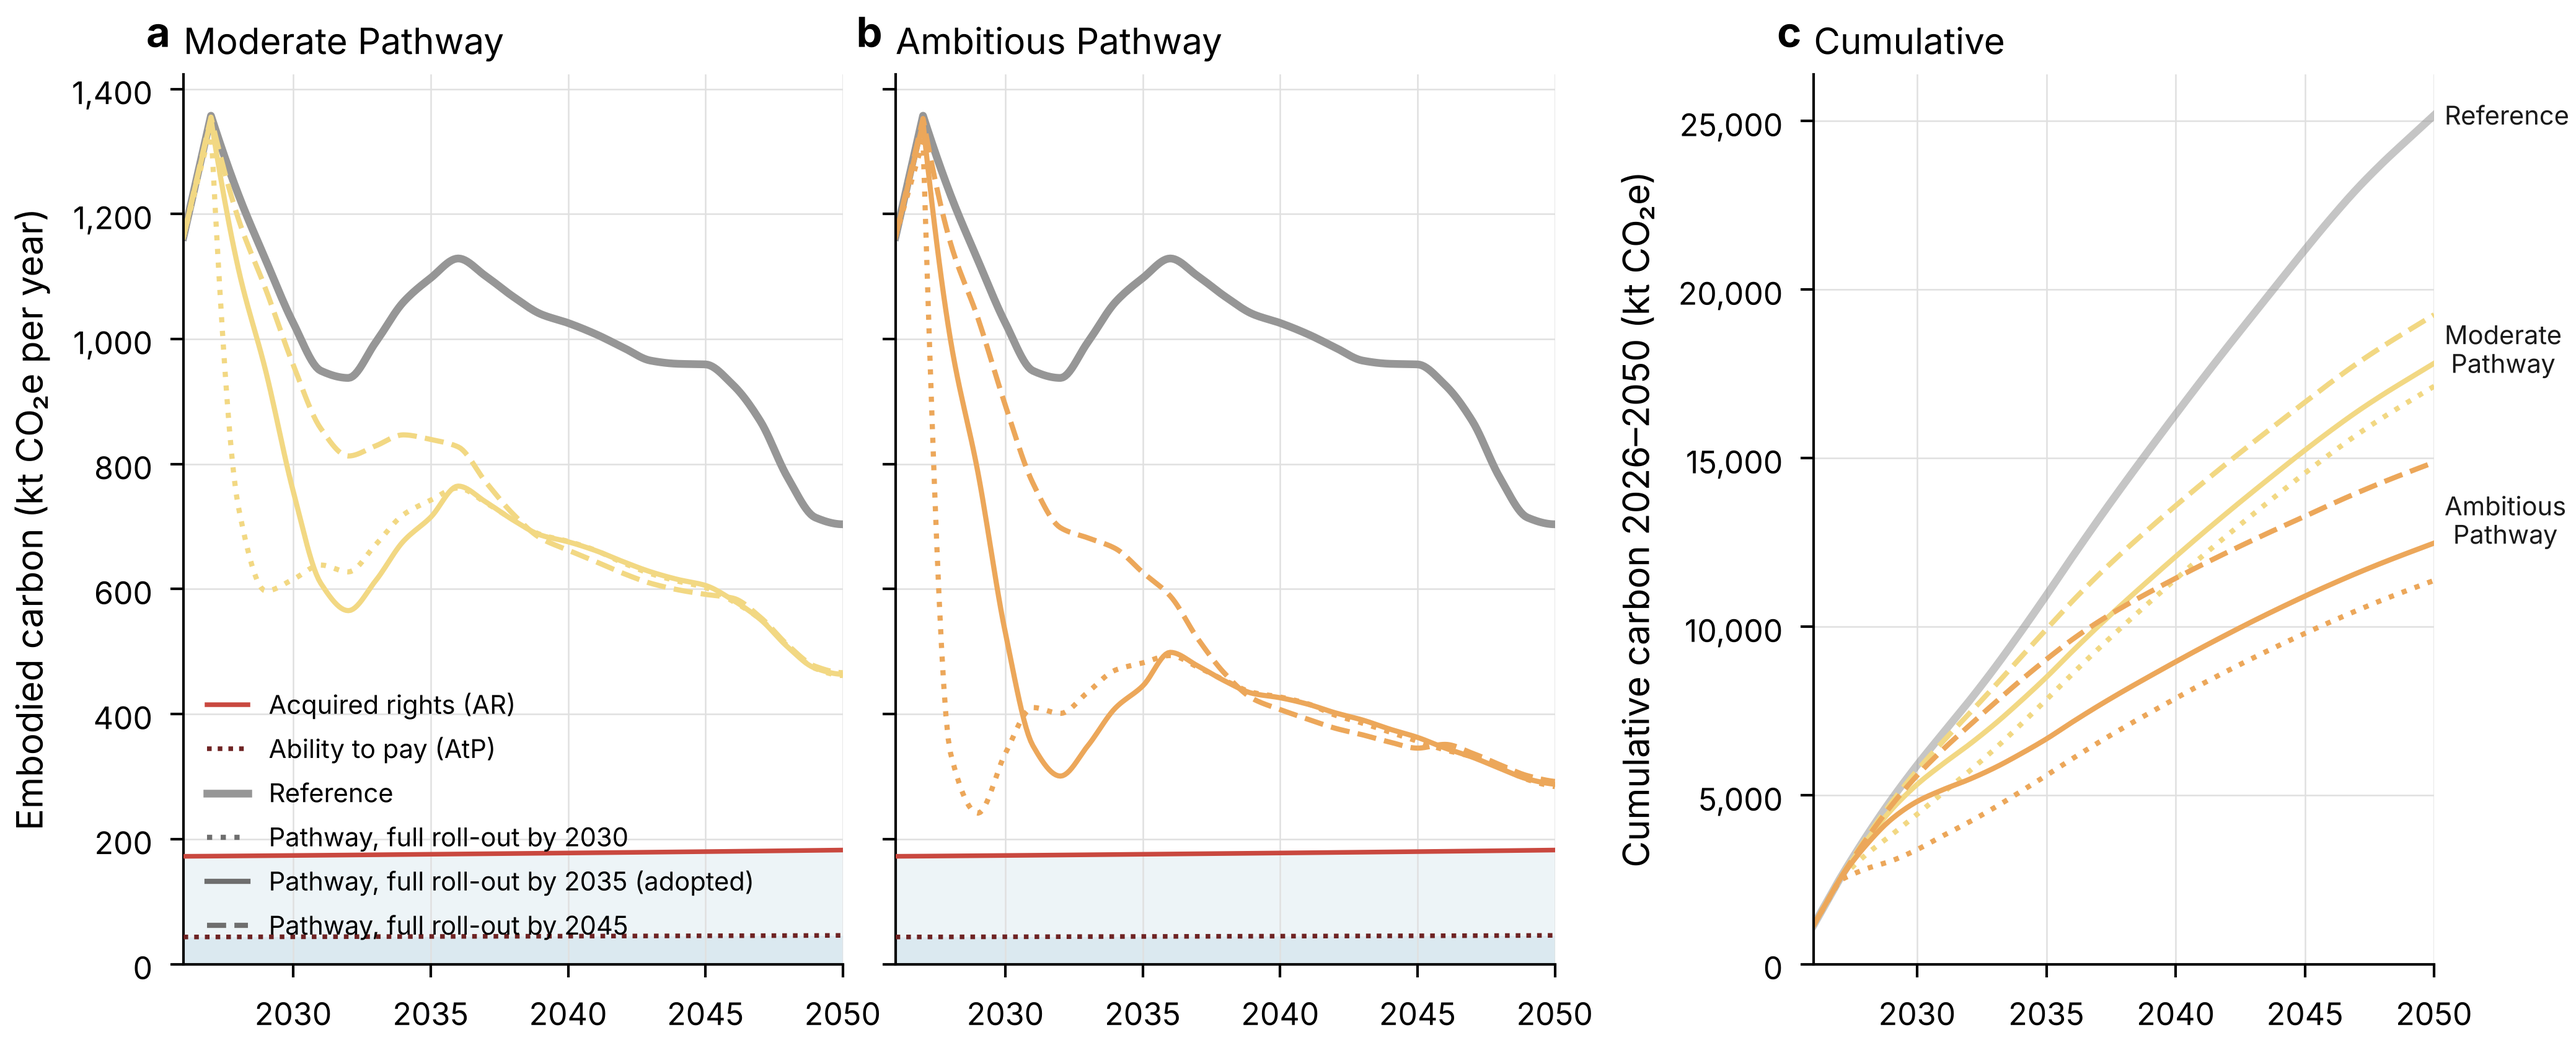
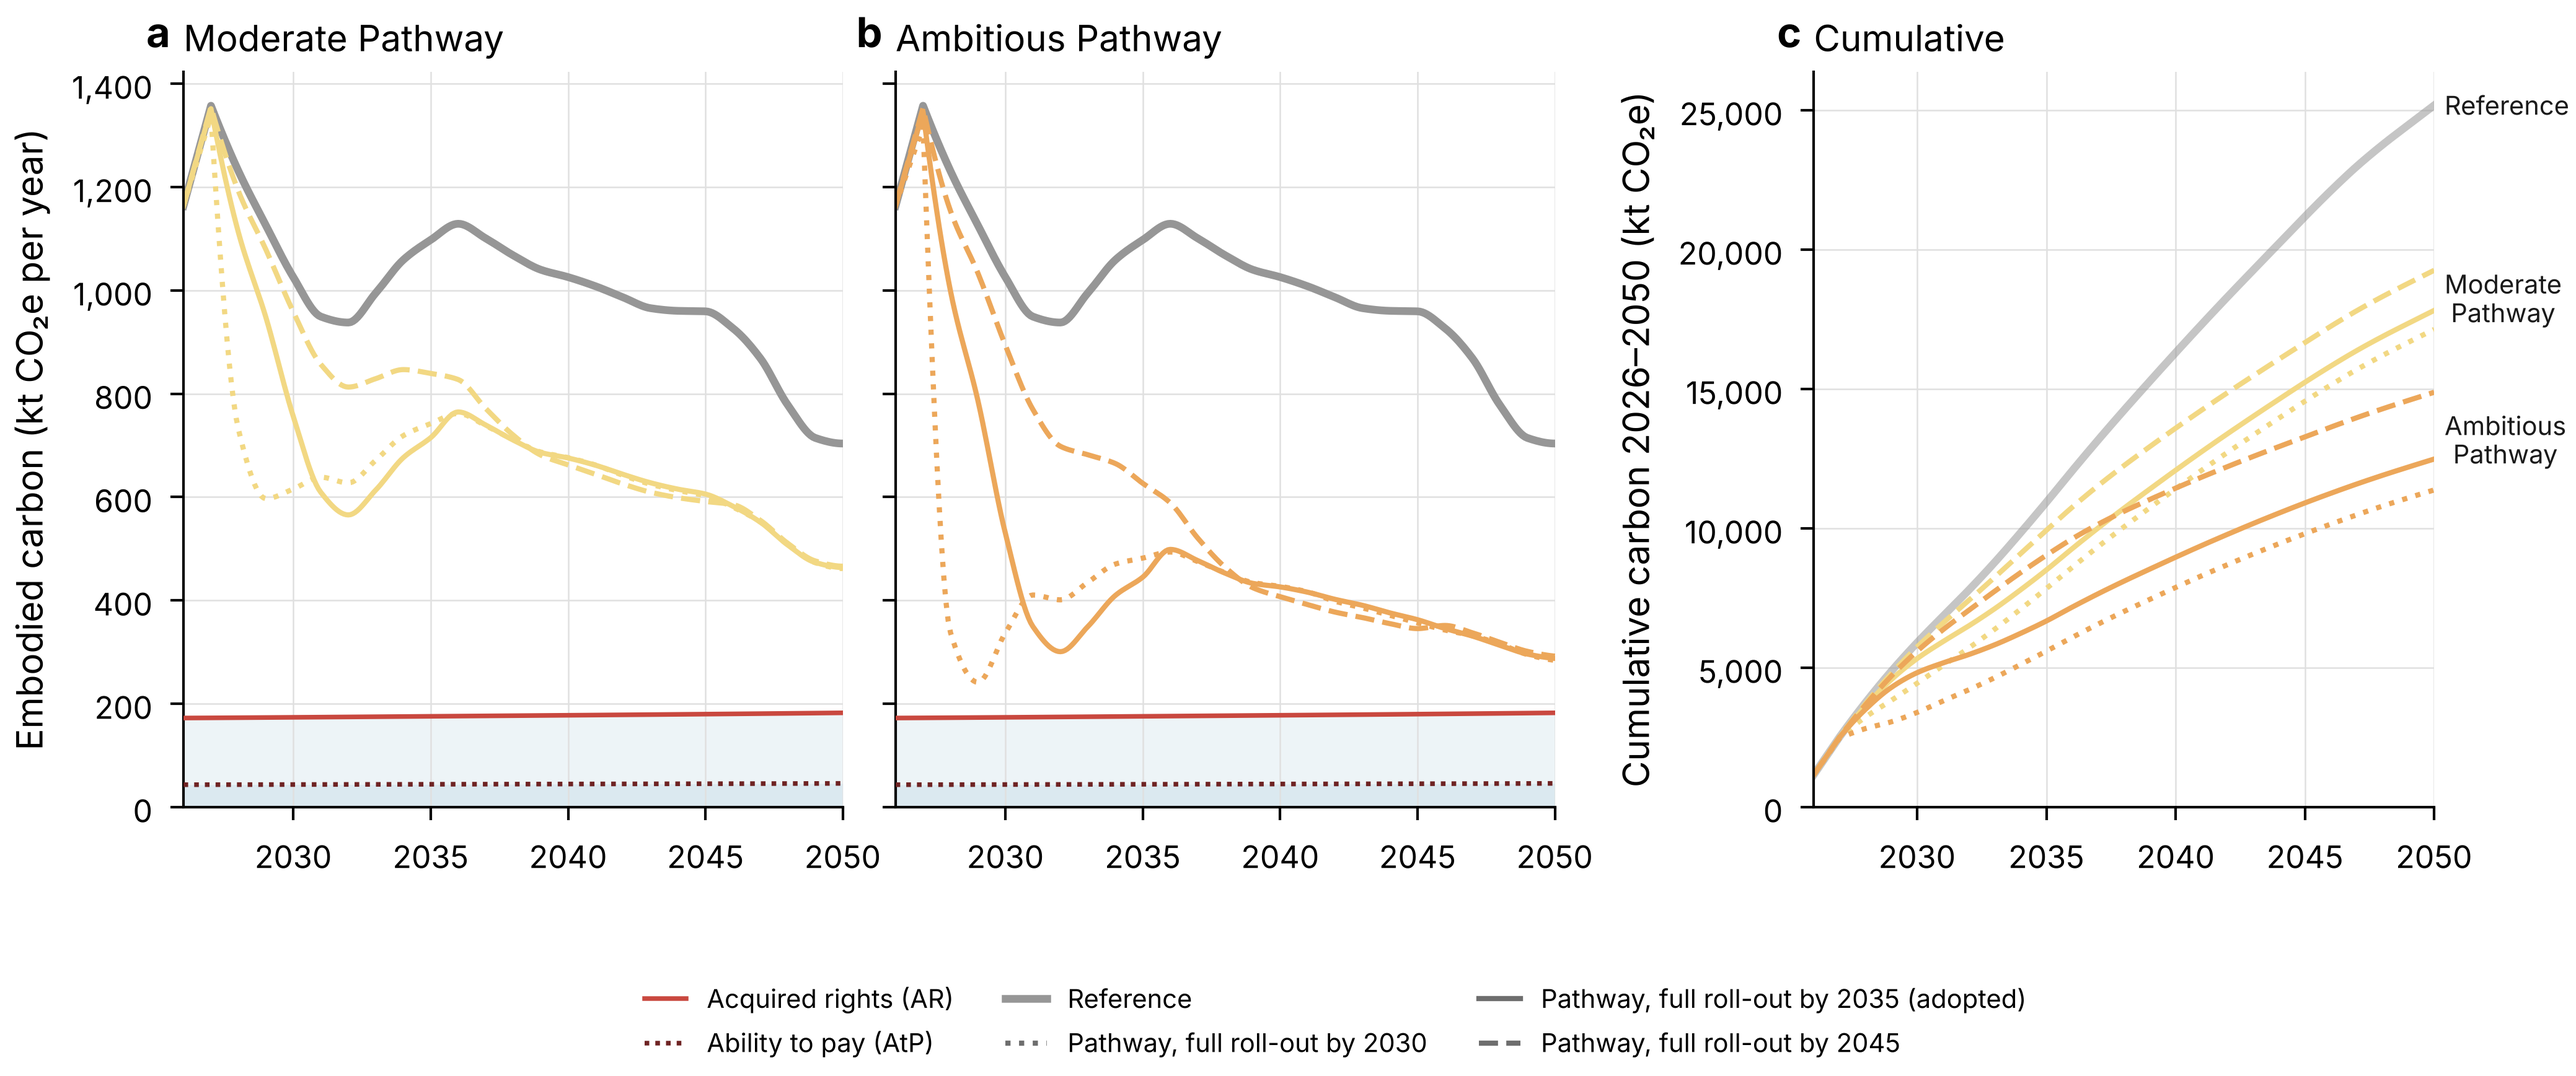
MODEL v4.4.0: figures checked, CHANGELOG old -> new table, CITATION 4.4.0
- Fig5 axes to 90% (TL marker clipped) with a STOP if a marker is within 3 pp
  of the edge; contour labels placed clear of the markers
- ED3 and ED9 legends below the panels (they covered the new data lines)
- CHANGELOG v4.4.0 with the old -> new table; CITATION.cff 4.4.0

diff --git a/figures/paper_extended.py b/figures/paper_extended.py
@@ -197,8 +197,10 @@ def ed10():
     plt.setp(ax[1].get_yticklabels(), visible=False)
     ax[0].set_ylabel('Embodied carbon (kt CO₂e per year)')
     h0, _ = ax[0].get_legend_handles_labels()                       # AR, AtP, Reference; the roll-out styles in grey
-    ax[0].legend(handles=h0 + [Line2D([0], [0], color=S.MUTED, ls=ls, lw=S.LW, label=f'Pathway, full roll-out {lab}')
-                               for _, ls, lab in VARIANTS], fontsize=S.FONT_MIN)
+    # the legend below the panels (the AR / AtP lines and the zones fill the lower part of panel a)
+    fig.legend(handles=h0 + [Line2D([0], [0], color=S.MUTED, ls=ls, lw=S.LW, label=f'Pathway, full roll-out {lab}')
+                             for _, ls, lab in VARIANTS], fontsize=S.FONT_MIN, loc='lower center',
+               bbox_to_anchor=(0.5, 0.0), ncol=3, frameon=False)
     # (c) cumulative 2026-2050 (running sum from 2026)
     c = fig.add_subplot(outer[1])
     m = yrs >= 2026
@@ -223,7 +225,7 @@ def ed10():
     c.set_ylabel('Cumulative carbon 2026–2050 (kt CO₂e)')
     P.thousands(c.yaxis)
     P.panel(c, 'c', 'Cumulative')
-    fig.subplots_adjust(left=0.07, right=0.91, bottom=0.11, top=0.92)
+    fig.subplots_adjust(left=0.07, right=0.91, bottom=0.25, top=0.92)
     _save(fig, 'ED9_rollout_timing', note='(c) Cumulative 2026-2050 (kt): ' + ', '.join(
         f'{N.run_label(r_)} {v:,.0f}' for r_, v in ends) + f'; Reference {cref[-1]:,.0f}.')
 
@@ -319,13 +321,14 @@ def ed9():
     ax[0].set_xlim(yrs[0], yrs[-1])
     ax[0].set_ylim(0, None)
     ax[0].set_ylabel('Embodied carbon (kt CO₂e per year)')
-    ax[0].legend(handles=[Line2D([0], [0], color=S.REFERENCE, label=N.SCENARIOS['REF']),
+    # the legend of panel a below the panels (the variants' lines fill the upper part of panel a)
+    fig.legend(handles=[Line2D([0], [0], color=S.REFERENCE, label=N.SCENARIOS['REF']),
                           Line2D([0], [0], color=S.PATHWAY_SETTING['moderate'], label=N.PATHWAY_RUNS['pathway-moderate']),
                           Line2D([0], [0], color=S.PATHWAY_SETTING['ambitious'],
                                  label=N.PATHWAY_RUNS['pathway-ambitious']),
                           Line2D([0], [0], color=S.TL, label=N.TL['TL'])] +
                  [Line2D([0], [0], color=S.MUTED, ls=ls, label=_variant_label(k)) for k, ls in VARIANT_LS],
-                 fontsize=S.FONT_MIN)
+               fontsize=S.FONT_MIN, loc='lower left', bbox_to_anchor=(0.06, 0.0), ncol=4, frameon=False)
     P.panel(ax[0], 'a', 'Annual')
     piv = v.pivot(index='run', columns='scenario', values='LoE_AR').loc[['Reference', 'pathway-moderate',
                                                                         'pathway-ambitious', 'TL']]
@@ -342,7 +345,7 @@ def ed9():
     ax[1].set_ylabel(f'{N.LOE_AR} 2026–2050')
     ax[1].legend(fontsize=S.FONT_MIN)
     P.panel(ax[1], 'b', 'Cumulative')
-    fig.tight_layout()
+    fig.tight_layout(rect=(0, 0.12, 1, 1))
     _save(fig, 'ED3_replacement_variants')                          # ED8 -> ED3
 
 

diff --git a/figures/paper_main.py b/figures/paper_main.py
@@ -570,8 +570,9 @@ def reduction_by_band():
 # ---------------------------------------------------------------------------
 # Fig5: the solution space against AR and AtP
 # ---------------------------------------------------------------------------
-FIG5_LIM = (-0.05, 0.85)        # both axes from -5% to 100% (to 110%)
-FIG5_N = 421                   # grid points per axis (0.25% steps)
+FIG5_LIM = (-0.05, 0.90)        # both axes from -5% to 90%
+FIG5_N = 381                   # grid points per axis (0.25% steps)
+FIG5_MARKER_MARGIN = 0.03      # every marker at least this far inside the square (a marker on the edge is clipped)
 
 
 def fig5_loe(bc, x, y):
@@ -677,10 +678,28 @@ def fig5():
     # labels where each contour crosses the diagonal x = y: (1 - x)^2 = k
     diag = {v: 1.0 - np.sqrt(fig5_k(bc, v)) for v in levels if fig5_k(bc, v) > 0}
     lab_levels = [v for v, d in diag.items() if 0.02 <= d <= 0.98]      # crossings inside the square only
-    ax.clabel(cs, levels=lab_levels, fmt=lambda v: f'LoE of AR {v:g}', fontsize=S.FONT_MIN,
-              manual=[(100 * diag[v], 100 * diag[v]) for v in lab_levels])
+    # each label sits where its contour crosses the diagonal unless its text (about 14 percentage points long)
+    # would cover a marker; then the first position along the contour, either side of the diagonal, that clears
+    # every marker and the square's edges (clabel takes the nearest contour point to the position given)
+    mk = [(100 * m['demand_reduction'], 100 * m['intensity_reduction']) for m in bc['solution_space_markers']]
+    clear = lambda p: (all(np.hypot(p[0] - a, p[1] - b) >= (14.0 if s == 0 else 10.0) for a, b in mk)
+                       and 100 * lo + 8.0 <= min(p) and max(p) <= 100 * hi - 8.0)
+    pos = []
+    for v in lab_levels:
+        d = 100 * diag[v]
+        pick = (d, d)
+        for s in sorted(range(-40, 41, 2), key=abs):
+            if clear((d + s, d - s)):
+                pick = (d + s, d - s)
+                break
+        pos.append(pick)
+    ax.clabel(cs, levels=lab_levels, fmt=lambda v: f'LoE of AR {v:g}', fontsize=S.FONT_MIN, manual=pos)
     for m in bc['solution_space_markers']:
         run = m['run']
+        if not all(lo + FIG5_MARKER_MARGIN <= v <= hi - FIG5_MARKER_MARGIN
+                   for v in (m['demand_reduction'], m['intensity_reduction'])):
+            raise SystemExit(f"STOP: Fig5: the {run} marker ({m['demand_reduction']:.3f}, {m['intensity_reduction']:.3f}) "
+                             f'is not inside the plotted square {FIG5_LIM} with margin {FIG5_MARKER_MARGIN}')
         xm, ym = 100 * m['demand_reduction'], 100 * m['intensity_reduction']
         if run == 'TL':
             ax.plot(xm, ym, color=S.TL, ls='none', **S.TL_MARKER, zorder=6)

diff --git a/CHANGELOG.md b/CHANGELOG.md
@@ -2,6 +2,84 @@
 
 Current release first. "Numbers" means the reported results in `outputs/data/`.
 
+## model-v4.4.0: Stats NZ 2023-base household projections, starting surplus, AR base with completion
+
+One full run (`run_all.py --profile full`), then the light profile. Every number below is read from the outputs of
+v4.3.7 (5ae8bf5) and of this run.
+
+* **Household size: Stats NZ 2023-base family and household projections.**
+  * Inputs: POPPR_FHH_008 (people in households) and POPPR_FHH_010 (households), 2023(base)-2048, Low / Medium /
+    High x propensity A / B, in `data/raw/` (MANIFEST rows).
+  * `data/build_households_2023.py` writes `data/derived/households_proj_2023base.csv`, with
+    S = people in households / households. The published AHS is not used. A STOP fires unless
+    FHH + OPH + OMH = HH within 100.
+  * Knots, Medium A: 2.741, 2.689, 2.633, 2.584, 2.548, 2.524 (2023-2048). Medium B ends at 2.648.
+  * The Reference uses Medium A (`HH_PROPENSITY = 'A'`), rebased on the observed 2023 household size (2.686).
+    This holds the share of the population outside private dwellings at its 2023 level.
+  * S 2048 / 2049 / 2050 = 2.473 / 2.473 / 2.473: zero slope imposed at 2048, held after it.
+  * N4 resolved. The 5th / 95th population paths take Low A / High A (`HH_SIZE_PAIRED`). The Monte Carlo pairs them
+    through one z, as before.
+  * Rows:
+    * The S-only "Stats NZ High / Low variant" row is removed; its variation is now part of the population row.
+    * New row "Living arrangements: propensities change (Stats NZ B)" (Medium B): Reference -18.1%.
+    * The tail rows now act "after 2048". The secant and end-slope tapers move carbon by +1.04% and +0.78%, above the
+      0.1% rule, so they stay shown. The flat row (-0.008%) stays in the not-shown list.
+  * The 2018-base files and loader are no longer used by any reported run. They are kept only as
+    `HH_SIZE_PATH = 'statsnz_2018'`, with which tests/test_events.py and tests/test_model_v4.py reproduce the
+    anchors of earlier versions.
+* **F2: households 2019-2023.** `data/raw` holds no Stats NZ household estimates rebased on the 2023 census: the
+  March 2026 quarter release still has its last household base at 2018. The census-pinned rescaling (k = 0.824) is
+  kept and nothing was fetched.
+* **F1: starting surplus (rule fixed in advance).**
+  * Stock-identity residual, 1992-2023 census intervals: time-weighted mean -463 and SD 3,038 dwellings a year.
+  * 2024-2025: 9,020 a year, above mean + 2 SD (5,614), so the surplus is carried.
+  * Starting surplus: (9,020 + 463) x 2 = 18,966 vacant dwellings at 1 January 2026. It is absorbed with the
+    overbuild by 2035, in every run and Monte Carlo draw, recomputed from each run's own completion rate and lag.
+    TL runs pool it for re-occupation.
+  * Rows: no starting surplus +2.71%; minus 2 SD (6,812 dwellings) +1.73%.
+  * The decision does not depend on the SD definition: with the unweighted SD (3,437), mean + 2 SD = 6,412.
+* **F5: the AR base co-varies with the completion rate and lag.**
+  * Each Monte Carlo draw rebuilds its 2016-2025 history at its own completion rate
+    (`boundaries.history_at_completion`).
+  * The completion-rate and completion-lag rows recompute the base from their own runs (class 'recompute'). The
+    Monte Carlo base at 0.93 equals the base of the 0.93 run to 1e-12.
+* **F6:** the Fig7a note states that the carbon-factor (jackknife) row falls below the row filter: LoE AR
+  5.660-5.697 against carbon -3.4% / +3.2%, because the AR base co-varies with the factors.
+* **Old -> new** (v4.3.7 -> v4.4.0):
+
+  | quantity | v4.3.7 | v4.4.0 | change |
+  |---|---|---|---|
+  | Reference cumulative carbon 2026-2050 (kt CO2e) | 19,761 | 25,176 | +27.4% |
+  | Reference floor area 2026-2050 (Mm2) | 81.53 | 103.94 | +27.5% |
+  | Household size 2050 | 2.652 | 2.473 | -6.7% |
+  | Demand band carbon (kt): population growth | 9,776 | 9,776 | 0.0% |
+  | household-size change | 487 | 3,421 | x7.0 |
+  | extra space | 6,364 | 9,070 | +42.5% |
+  | vacancy | 947 | 1,268 | +33.9% |
+  | net replacement | 1,804 | 1,870 | +3.7% |
+  | market balance (incl. the starting-surplus payback) | 24 | -668 | |
+  | (maintenance) | 359 | 438 | +22.0% |
+  | Reference LoE AR / AtP | 4.464 / 17.76 | 5.687 / 22.62 | +27.4% |
+  | Moderate Pathway carbon (kt) / LoE AR / AtP | 14,302 / 3.231 / 12.85 | 17,818 / 4.025 / 16.01 | +24.6% |
+  | Ambitious Pathway carbon (kt) / LoE AR / AtP | 10,267 / 2.319 / 9.22 | 12,486 / 2.821 / 11.22 | +21.6% |
+  | Theoretical Limit carbon (kt) / LoE AR / AtP | 4,423 / 0.999 / 3.97 | 4,079 / 0.921 / 3.67 | -7.8% |
+  | P(LoE AR <= 1): Reference / Moderate / Ambitious / TL | 0 / 0 / 0.0002 / 0.499 | 0 / 0 / 0 / 0.640 | |
+  | TL threshold 2050 population, P = 50% (M) | 6.614 | 6.715 | +1.5% |
+  | Sobol total indices, carbon (top 3) | z_pop 0.846, size 0.108, carbon 0.044 | z_pop 0.670, size 0.234, carbon 0.089 | |
+
+  * TL falls while the Reference rises. With the starting surplus at zero, TL would be 4,279 kt (LoE AR 0.967), so
+    199 kt of the 344 kt fall is the surplus pooled for re-occupation. The rest comes with the 2023-base household
+    path; it is not decomposed further here.
+* **Figures:**
+  * Fig5 axes to 90% (the TL marker had moved outside) and contour labels clear of the markers.
+  * ED3 and ED9 legends moved below the panels.
+  * ED4 at 247 mm.
+  * SF2 legend and note name the starting surplus.
+* **Checks.**
+  * Full test suite (full profile): 259 passed, 2 skipped (the local AESA workbook).
+  * Regression lock re-captured: 33 of 34 deterministic files and all Monte Carlo files changed; the light and full
+    deterministic files are identical.
+
 ## model-v4.3.7: Inter, ED10 reality checks, one net-replacement band
 
 Figures only: no model, Monte Carlo or Sobol run. Every figure is redrawn from the committed outputs (`redraw.py`).

diff --git a/outputs/FIGURES.md b/outputs/FIGURES.md
@@ -42,7 +42,7 @@ Run profile: **full** (5,000 Monte Carlo draws; formats png at 600 dpi). Every f
 
 - Files: `paper_main/Fig5_solution_space.png`
 - Data: `data/pathways/solution_space.csv`, `data/pathways/backcast.json`, `data/pathways/runs.csv`
-- This run: LoE AR = [1,207 + 23,969 (1 - x)(1 - y)] / 4,427 kt; C_2026 = the 2026 cohort's emissions in the window; plane floor C_2026 / B_AR = 0.273 (the lowest LoE AR at x or y = 100%); AtP = B_AtP / B_AR = 0.251 lies below the floor, so the AtP contour is outside the plotted square (y = 100.4% at x = 0). Axes -5% to 85%.
+- This run: LoE AR = [1,207 + 23,969 (1 - x)(1 - y)] / 4,427 kt; C_2026 = the 2026 cohort's emissions in the window; plane floor C_2026 / B_AR = 0.273 (the lowest LoE AR at x or y = 100%); AtP = B_AtP / B_AR = 0.251 lies below the floor, so the AtP contour is outside the plotted square (y = 100.4% at x = 0). Axes -5% to 90%.
 
 ### Fig6_shapley_levers
 
